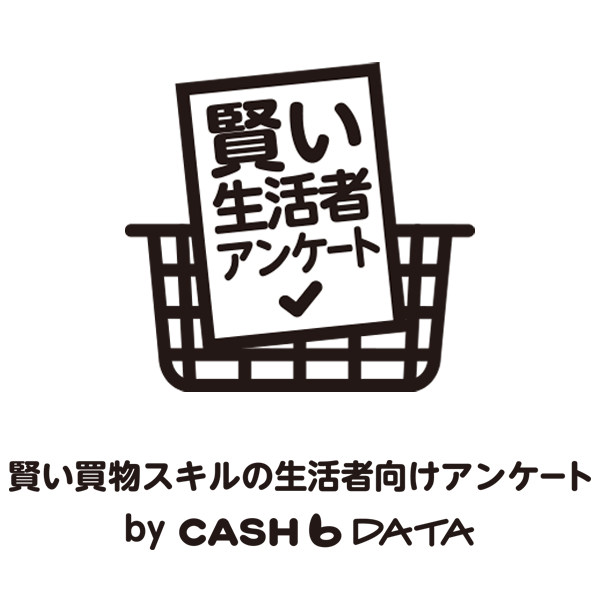
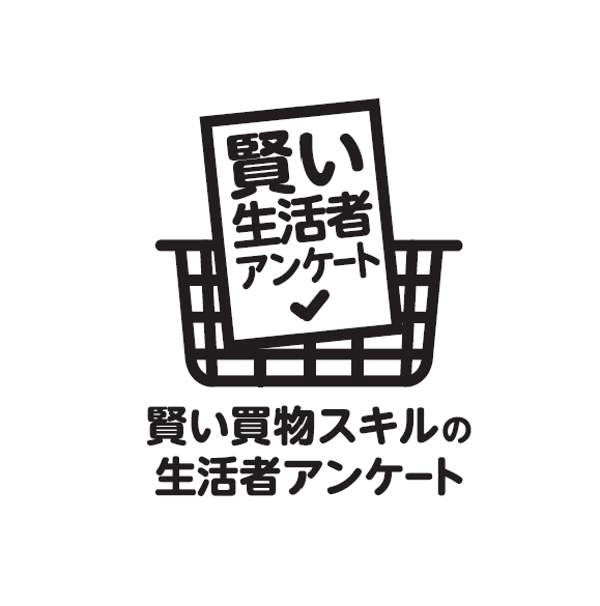
指示書 スライド2 対応
スキップされないターゲット広告は既存のままにする

Changed region(s): [[0.0, 0.09, 0.99, 0.93]]

diff --git a/index.html b/index.html
@@ -146,10 +146,10 @@ height="0" width="0" style="display:none;visibility:hidden"></iframe></noscript>
     <p class="add_text">「アンケート調査の実施が急遽必要になり、手軽な手段を探している」、「より新鮮な声を集めたい」、「予算が少なくリーズナブルにマーケティングを実施したい」などの課題を抱えるあらゆるBtoC企業や組織の課題解決に向け、キャッシュビーデータでは、ビッグデータをマーケティング領域で気軽に、そしてリーズナブルにご利用いただける様、次のサービスを提供します。</p> 
     <div class="wrap">
         <div class="box fadein">
-            <a href="business#about_2">
-            <img src="assets/img/business/research-2.png" alt="リサーチサービス">
+            <a href="service">
+                <img src="assets/img/business/research-2.png" alt="リサーチサービス">
             </a>    
-            <h3>賢い買物スキルの生活者向けアンケート<br>by CASHb Data</h3>
+            <h3>賢い買物スキルの生活者アンケート</h3>
             <p>セルフサービス方式による、アンケート調査の提供</p>
         </div>
         <div class="box fadein">
@@ -160,12 +160,14 @@ height="0" width="0" style="display:none;visibility:hidden"></iframe></noscript>
             <p>デモグラフィックや価値観という概念に基づいた最適なユーザに対して、キャッシュバックによる効率的な広告配信</p>
         </div>
         <div class="box fadein">
-            <img src="assets/img/common/comingsoon.jpg" alt="データ利用サービス">
-            <h3>データ利用サービス（仮）</h3>
-            <p>サブスクリプション制による自由なデータ分析環境の提供（2022年予定）</p>
+            <a href="service">
+                <img src="assets/img/common/data-service-2.jpg" alt="データ利用サービス">
+            </a>
+            <h3>CASHb DATA BOX</h3>
+            <p>サブスクリプション制による自由なデータ分析環境の提供</p>
         </div>
     </div>
-    <a class="btn fadein2" href="business#about_2">詳しくはこちら</a>
+    <a class="btn fadein2" href="service">詳しくはこちら</a>
 </section>
 
 <section id="top_4">
